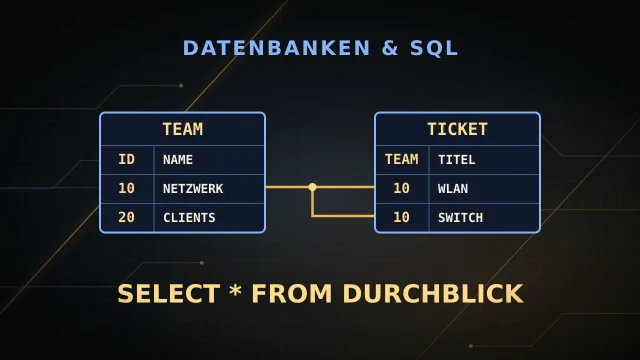
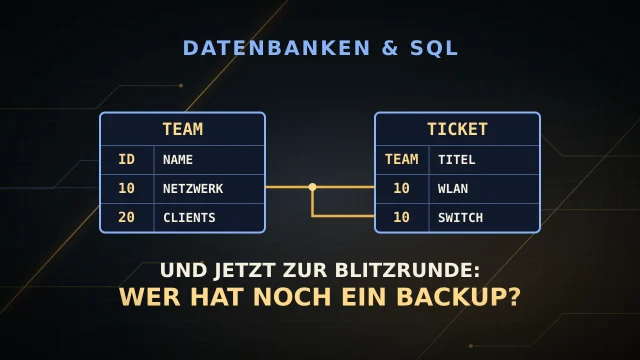
E2: Quizshow-Titel und Svens Untertitel einsetzen

Changed region(s): [[0.1875, 0.7028, 0.8125, 0.8556]]

diff --git a/lernmodule/e2-sql.html b/lernmodule/e2-sql.html
@@ -4,7 +4,7 @@
 <meta charset="utf-8">
 <meta name="viewport" content="width=device-width,initial-scale=1">
[1 lines of base64/hex data omitted]
-<title>Datenbanken &amp; SQL · SELECT * FROM Durchblick · DAU TO PRO</title>
+<title>Datenbanken &amp; SQL · Und jetzt zur Blitzrunde: Wer hat noch ein Backup? · DAU TO PRO</title>
 <meta name="description" content="Modelliere den Helpdesk, filtere Tickets mit SQL und finde heraus, warum ein DELETE ohne WHERE den Nachmittag ruiniert.">
 <style>
 :root{color-scheme:dark;--base:#0b101c;--surface:#161e31;--surface2:#131b2a;--slate:#25324b;--gold:#eab448;--goldlite:#ffe4a1;--cyan:#89b4fa;--cream:#f5f0df;--text:#e9e6da;--muted:#aebabc;--stroke:rgba(233,174,56,.29);--acc:#89b4fa;--ok:#4ee69b;--bad:#ff6b6b;--warn:#f0a64a;--mono:ui-monospace,"JetBrains Mono","Cascadia Mono",Consolas,monospace}
@@ -1348,8 +1348,8 @@ button,a,[role="tab"],.qhelp,summary,label,select,.area-tab,.stage-tile,.ch-tile
   <div class="wrap hero-grid">
     <div>
       <div class="kicker"><span class="live-dot"></span> GRUNDLAGEN <b>//</b> DATENBANKEN &amp; SQL <b>//</b> MODUL E2</div>
-      <h1>SELECT * FROM <span>Durchblick</span></h1>
-      <p class="hero-lead">Dein Helpdesk hat 400 Tickets und drei Listen mit leicht verschiedenen Zahlen. Bau ein Datenmodell, schreib SQL und finde heraus, welches Team wirklich alles offen hat.</p>
+      <h1>Und jetzt zur Blitzrunde: <span>Wer hat noch ein Backup?</span></h1>
+      <p class="hero-lead">Das Publikum darf helfen. Außer Sven. Sven hat uns hier reingeritten.</p>
       <div class="hero-meta"><span><b>10</b> Stufen</span><span><b>10</b> Kapitel</span><span><b id="heroTypes">60+</b> Aufgabentypen</span><span>Daten nach Plan</span></div>
     </div>
     <div class="bitwall" id="bitwall" aria-hidden="true"></div>
@@ -1579,7 +1579,7 @@ Eigene Varianten der Beispiele sind möglich. Jeder Lauf startet mit denselben B
 </main>
 
 <section class="dtp-disclaimer"><div class="wrap"><p><strong>Wichtiger Hinweis:</strong> DAU TO PRO ist keine offizielle Lernplattform. Die Inhalte sind persönliche Sammlungen und Recherchen und bilden keine offiziellen Lehrpläne oder Prüfungsanforderungen verbindlich ab. Trotz sorgfältiger Erstellung können Fehler enthalten sein. Bitte prüfe wichtige Aussagen anhand deiner Unterrichtsunterlagen und verlässlicher Fachquellen.</p></div></section>
-<footer class="dtp-footer"><div class="wrap footer-inner"><div class="foot-brand"><div><strong>DAU <em>to PRO</em></strong><small>Modul E2 · Datenbanken &amp; SQL · SELECT * FROM Durchblick · v1.0</small></div></div><div style="display:flex;gap:14px;align-items:center;flex-wrap:wrap"><button type="button" id="resetBtn">Fortschritt zurücksetzen</button><small>© 2026 Willi Gering</small></div></div></footer>
+<footer class="dtp-footer"><div class="wrap footer-inner"><div class="foot-brand"><div><strong>DAU <em>to PRO</em></strong><small>Modul E2 · Datenbanken &amp; SQL · Und jetzt zur Blitzrunde: Wer hat noch ein Backup? · v1.0</small></div></div><div style="display:flex;gap:14px;align-items:center;flex-wrap:wrap"><button type="button" id="resetBtn">Fortschritt zurücksetzen</button><small>© 2026 Willi Gering</small></div></div></footer>
 <script>
 (function(){
 'use strict';

diff --git a/dau-to-pro/cheat-sheet.html b/dau-to-pro/cheat-sheet.html
@@ -3,7 +3,7 @@
 <head>
 <meta charset="utf-8">
 <meta name="viewport" content="width=device-width,initial-scale=1,viewport-fit=cover">
-<meta name="description" content="Zwölf eigenständige Spickzettel zu Zahlensystemen, OSI, Subnetting, IPv6, Sicherheit, Kalkulation und weiteren Fachinformatiker-Themen.">
+<meta name="description" content="Dreizehn eigenständige Spickzettel zu Zahlensystemen, OSI, Subnetting, IPv6, Sicherheit, Kalkulation und weiteren Fachinformatiker-Themen.">
 <meta name="theme-color" content="#080c11">
 <title>Spickzettel · DAU TO PRO</title>
 <link rel="icon" type="image/svg+xml" href="../assets/dau-to-pro-pixelpilz.svg">

diff --git a/tools/build-e2.py b/tools/build-e2.py
@@ -10,7 +10,7 @@ from module_theme import apply_theme
 
 ROOT = Path(__file__).resolve().parents[1]
 TOOLS = ROOT / 'tools'
-TITLE = 'SELECT * FROM Durchblick'
+TITLE = 'Und jetzt zur Blitzrunde: Wer hat noch ein Backup?'
 DESCRIPTION = 'Modelliere den Helpdesk, filtere Tickets mit SQL und finde heraus, warum ein DELETE ohne WHERE den Nachmittag ruiniert.'
 
 def between(html, start, stop, value):
@@ -127,12 +127,12 @@ html=re.sub(r"const SPRINT_SUBS=\[.*?\];","const SPRINT_SUBS=SUBS.filter(t=>['wo
 html=re.sub(r"\s*window\.dtpMountCalculator\?\.\([^;]*\);","",html)
 for old,new in {
  'WIRTSCHAFT &amp; PROJEKTE <b>//</b> KALKULATION &amp; BESCHAFFUNG <b>//</b> MODUL F2':'GRUNDLAGEN <b>//</b> DATENBANKEN &amp; SQL <b>//</b> MODUL E2',
- 'Rechnet <span>sich das?</span>':'SELECT * FROM <span>Durchblick</span>',
- 'Rabatt, Skonto und eine kleine Rate. Das Angebot sieht gut aus, bis du den Rest der Rechnung liest. Hier rechnest du aus, was wirklich auf dem Konto landet oder davon abgeht.':'Dein Helpdesk hat 400 Tickets und drei Listen mit leicht verschiedenen Zahlen. Bau ein Datenmodell, schreib SQL und finde heraus, welches Team wirklich alles offen hat.',
+ 'Rechnet <span>sich das?</span>':'Und jetzt zur Blitzrunde: <span>Wer hat noch ein Backup?</span>',
+ 'Rabatt, Skonto und eine kleine Rate. Das Angebot sieht gut aus, bis du den Rest der Rechnung liest. Hier rechnest du aus, was wirklich auf dem Konto landet oder davon abgeht.':'Das Publikum darf helfen. Außer Sven. Sven hat uns hier reingeritten.',
  'Rechenwege statt Bauchgefühl':'Daten nach Plan',
  'Vom Preisschild <span>zum Durchblick.</span>':'Vom ersten Ticket <span>zur eigenen Abfrage.</span>',
  'Alles zum Nachrechnen. <span>Cent für Cent.</span>':'Alles zum Nachschlagen. <span>Zeile für Zeile.</span>',
- 'Modul F2 · Kalkulation &amp; Beschaffung · Rechnet sich das? · v1.0':'Modul E2 · Datenbanken &amp; SQL · SELECT * FROM Durchblick · v1.0',
+ 'Modul F2 · Kalkulation &amp; Beschaffung · Rechnet sich das? · v1.0':'Modul E2 · Datenbanken &amp; SQL · Und jetzt zur Blitzrunde: Wer hat noch ein Backup? · v1.0',
  'f2-kalk':'e2-sql','F2KALK_TEST':'E2SQL_TEST',
  "if(t.kind==='text')return esc(t.answer);":"if(t.kind!=='mc')return esc(t.answer);",
  "(t.kind==='text'?'text':t.kind==='num'?'decimal':'numeric')":"'text'",

diff --git a/achievements_lib.php b/achievements_lib.php
@@ -76,7 +76,7 @@ function ach_modules(): array {
             ['b5.urlaub','witzig','DHCP auf Malle','3 × hintereinander falsch bei „DHCP-Server im Urlaub“.',['fails','d_holiday'],'169.254 steht da. Der Internetzugang fehlt. Nicht jede Adresse ist eine Erfolgsmeldung.'],
         ]],
         // CS1 „Compiler sagt nein“ (ab 09.11.2026): Einstieg in die Programmierung. Eigener Präfix, damit alte C#-Lernstände unberührt bleiben.
-        'e2'=>['prefix'=>'e2-sql','subject'=>'Datenbanken & SQL','title'=>'SELECT * FROM Durchblick','motif'=>'datenbanken-sql','slugs'=>['e2-sql'],'stages'=>10,'list'=>[
+        'e2'=>['prefix'=>'e2-sql','subject'=>'Datenbanken & SQL','title'=>'Und jetzt zur Blitzrunde: Wer hat noch ein Backup?','motif'=>'datenbanken-sql','slugs'=>['e2-sql'],'stages'=>10,'list'=>[
             ['e2.start','bronze','Datenbank antwortet','Stufe 1 gemeistert.',['stage',0]],
             ['e2.keys','bronze','Schlüssel gefunden','Stufe 3 gemeistert.',['stage',2]],
             ['e2.normal','silber','Ganz normal hier','Stufe 5 gemeistert.',['stage',4]],

diff --git a/module_release_lib.php b/module_release_lib.php
@@ -76,6 +76,8 @@ function module_release_sync(PDO $db, ?string $root=null): void {
                 // Preserve publication, metadata, previews and independent admin drafts.
                 $draft=$page['draft_version']===$page['live_version']?$version:$page['draft_version'];
                 $db->prepare('UPDATE html_pages SET live_version=?,draft_version=?,updated_at=CURRENT_TIMESTAMP WHERE id=?')->execute([$version,$draft,$page['id']]);
+                if ($target==='e2-sql' && ($page['title']??'')==='SELECT * FROM Durchblick')
+                    $db->prepare('UPDATE html_pages SET title=? WHERE id=?')->execute([$m['title'],$page['id']]);
                 // Ersetzte Module: Steht noch der alte Standardtitel, kommen Titel, Fach und Beschreibung einmalig aus dem Manifest,
                 // und das neue Modul wird veröffentlicht. Eigene Admin-Titel bleiben unangetastet.
                 if (in_array((string)$page['title'],MODULE_RELEASE_REPLACED[$target]??[],true))

diff --git a/docs/modul-auftraege/README.md b/docs/modul-auftraege/README.md
@@ -187,7 +187,7 @@ Reihenfolge = Bau-Reihenfolge. Titel sind Vorschläge, du darfst witzigere finde
 | 12 | A2 | Hardware & Energie | RAID, aber bitte mit Sinn | a2-hardware.html | a2-hw | #6fe3c1 | hardware-memory |
 | 13 | A3 | Betriebssysteme & Terminal | sudo mach mal | a3-betriebssysteme.html | a3-os | #8bd5ca | circuit-micro |
 | 14 | E1 | Programmierung & Algorithmen | Schleife, bis es klickt | e1-programmierung.html | e1-prog | #a0a8ff | circuit-signal |
-| 15 | E2 | Datenbanken & SQL | SELECT * FROM Durchblick | e2-sql.html | e2-sql | #89b4fa | server |
+| 15 | E2 | Datenbanken & SQL | Und jetzt zur Blitzrunde: Wer hat noch ein Backup? | e2-sql.html | e2-sql | #89b4fa | server |
 | 16 | C1 | Virtualisierung & Cloud | Alles nur geliehen | c1-virtualisierung.html | c1-virt | #74c7ec | cables-fiber |
 | 17 | C2 | Server & Verzeichnisdienste | AGDLP und andere Zaubersprüche | c2-server.html | c2-ad | #94e2d5 | server |
 | 18 | C3 | Backup, Monitoring & Verfügbarkeit | Kein Backup, kein Mitleid | c3-backup.html | c3-backup | #a6e3a1 | hardware-connectors |
